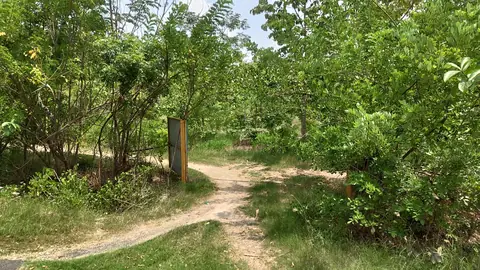
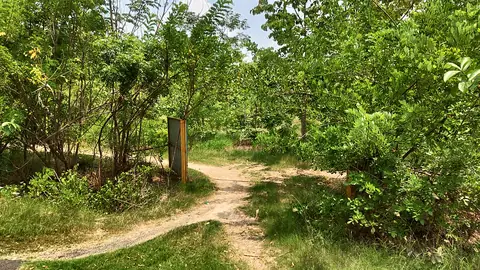
Make whole property cards open the listing, and clean up the site photos
The small "Full details" text link was easy to miss. Each card's title now
links to its listing page and is stretched over the card, so a tap on the
photo or text opens it, while the WhatsApp, call and details buttons stay
on top. "View full details & photos" is now a yellow button.

The Thirukazhukundram and Kaithandalam photos are re-taken from the
sharpest frame near each chosen moment of the owner's videos, denoised,
upscaled 2x (948x1185, with 480w variants), and given a gentle contrast and
colour lift; the tree-lined road frame is cropped to drop the cameraman's
shoe. The OMR building photo gets the same grade and loses the dark strip
left by the earlier perspective correction. Nothing on the land is added
or removed.

diff --git a/index.html b/index.html
@@ -366,13 +366,13 @@
         <div class="listings-grid">
           <article class="listing-card featured wide" id="thirukazhukundram-22-acres">
             <div class="listing-media">
-              <img src="/images/thirukazhukundram-field-hills.webp" width="474" height="592" loading="lazy" decoding="async"
+              <img src="/images/thirukazhukundram-field-hills.webp" srcset="/images/thirukazhukundram-field-hills-480.webp 480w, /images/thirukazhukundram-field-hills.webp 948w" sizes="(max-width: 700px) 92vw, 520px" width="948" height="1185" loading="lazy" decoding="async"
                    alt="Open field on the 22-acre Thirukazhukundram land with the hills in the background" />
               <div class="listing-badges"><span class="badge badge-new">New</span><span class="badge">Farm land</span><span class="badge badge-light">22 acres</span></div>
             </div>
             <div class="listing-body">
               <p class="listing-location">Thirukazhukundram · Chengalpattu district</p>
-              <h3 class="listing-title">22 Acres on Thirukazhukundram to Chengalpattu Road</h3>
+              <h3 class="listing-title"><a class="listing-link" href="/properties/thirukazhukundram-22-acres.html">22 Acres on Thirukazhukundram to Chengalpattu Road</a></h3>
               <p class="listing-desc">A 22-acre farm with coconut palms, mango trees, open fields and a tree-lined internal road, on the Thirukazhukundram to Chengalpattu road with the hills in view.</p>
               <dl class="listing-facts">
                 <div><dt>Extent</dt><dd>22 acres</dd></div>
@@ -380,7 +380,7 @@
                 <div><dt>Trees</dt><dd>Coconut &amp; mango</dd></div>
               </dl>
               <div class="listing-actions">
-                <a class="listing-more" href="/properties/thirukazhukundram-22-acres.html">Full details and photos</a>
+                <a class="listing-more" href="/properties/thirukazhukundram-22-acres.html">View full details &amp; photos</a>
                 <a class="btn btn-dark" target="_blank" rel="noopener noreferrer"
                    href="https://wa.me/919884836380?text=Hi%2C%20I%27m%20interested%20in%20the%2022-acre%20land%20on%20the%20Thirukazhukundram%20to%20Chengalpattu%20road%20(listed%20on%20your%20website).">WhatsApp Enquiry</a>
                 <a class="listing-map" href="tel:+919884836380">Call 98848 36380</a>
@@ -396,7 +396,7 @@
             </div>
             <div class="listing-body">
               <p class="listing-location">Kattankulathur · GST Road</p>
-              <h3 class="listing-title">16 Grounds on GST Road, Kattankulathur</h3>
+              <h3 class="listing-title"><a class="listing-link" href="/properties/gst-road-kattankulathur.html">16 Grounds on GST Road, Kattankulathur</a></h3>
               <p class="listing-desc">A large frontage parcel on the GST Road service road between Tambaram and Chengalpattu, beside the BDO office. Suited to a showroom, warehouse, school, hospital or commercial development.</p>
               <dl class="listing-facts">
                 <div><dt>Extent</dt><dd>≈ 16 grounds</dd></div>
@@ -404,7 +404,7 @@
                 <div><dt>Depth</dt><dd>223 to 277 ft</dd></div>
               </dl>
               <div class="listing-actions">
-                <a class="listing-more" href="/properties/gst-road-kattankulathur.html">Full details</a>
+                <a class="listing-more" href="/properties/gst-road-kattankulathur.html">View full details &amp; photos</a>
                 <a class="btn btn-dark" target="_blank" rel="noopener noreferrer"
                    href="https://wa.me/919884836380?text=Hi%2C%20I%27m%20interested%20in%20the%2016-ground%20GST%20Road%20property%20at%20Kattankulathur%20(listed%20on%20your%20website).">WhatsApp Enquiry</a>
                 <a class="listing-map" href="tel:+919884836380">Call 98848 36380</a>
@@ -420,10 +420,10 @@
             </div>
             <div class="listing-body">
               <p class="listing-location">OMR · Thoraipakkam</p>
-              <h3 class="listing-title">Under-construction Building, OMR Thoraipakkam</h3>
+              <h3 class="listing-title"><a class="listing-link" href="/properties/omr-thoraipakkam-building.html">Under-construction Building, OMR Thoraipakkam</a></h3>
               <p class="listing-desc">A stilt-plus-multi-floor building with the structure and block work complete, in Thoraipakkam just off the OMR IT corridor. Ask for floor plans and the current stage of work.</p>
               <div class="listing-actions">
-                <a class="listing-more" href="/properties/omr-thoraipakkam-building.html">Full details</a>
+                <a class="listing-more" href="/properties/omr-thoraipakkam-building.html">View full details &amp; photos</a>
                 <a class="btn btn-dark" target="_blank" rel="noopener noreferrer"
                    href="https://wa.me/919884836380?text=Hi%2C%20I%27m%20interested%20in%20the%20under-construction%20building%20in%20OMR%20Thoraipakkam%20(listed%20on%20your%20website).">WhatsApp Enquiry</a>
                 <a class="listing-map" href="tel:+919884836380">Call</a>
@@ -438,14 +438,14 @@
             </div>
             <div class="listing-body">
               <p class="listing-location">OMR · Thoraipakkam</p>
-              <h3 class="listing-title">9,000 sq ft Land in Thoraipakkam, OMR</h3>
+              <h3 class="listing-title"><a class="listing-link" href="/properties/omr-thoraipakkam-9000-sqft.html">9,000 sq ft Land in Thoraipakkam, OMR</a></h3>
               <p class="listing-desc">A sizeable plot (about 3.75 grounds) in Thoraipakkam on the OMR corridor, close to the IT parks, with strong demand for residential and commercial use.</p>
               <dl class="listing-facts">
                 <div><dt>Extent</dt><dd>9,000 sq ft</dd></div>
                 <div><dt>Grounds</dt><dd>≈ 3.75</dd></div>
               </dl>
               <div class="listing-actions">
-                <a class="listing-more" href="/properties/omr-thoraipakkam-9000-sqft.html">Full details</a>
+                <a class="listing-more" href="/properties/omr-thoraipakkam-9000-sqft.html">View full details</a>
                 <a class="btn btn-dark" target="_blank" rel="noopener noreferrer"
                    href="https://wa.me/919884836380?text=Hi%2C%20I%27m%20interested%20in%20the%209%2C000%20sq%20ft%20land%20in%20OMR%20Thoraipakkam%20(listed%20on%20your%20website).">WhatsApp Enquiry</a>
                 <a class="listing-map" href="tel:+919884836380">Call</a>
@@ -460,14 +460,14 @@
             </div>
             <div class="listing-body">
               <p class="listing-location">Anandham Nagar · Thoraipakkam</p>
-              <h3 class="listing-title">Building under Construction, Anandham Nagar</h3>
+              <h3 class="listing-title"><a class="listing-link" href="/properties/anandham-nagar-building.html">Building under Construction, Anandham Nagar</a></h3>
               <p class="listing-desc">A 2,500 sq ft building under construction on a 1,200 sq ft plot in Anandham Nagar, Thoraipakkam.</p>
               <dl class="listing-facts">
                 <div><dt>Land</dt><dd>1,200 sq ft</dd></div>
                 <div><dt>Built-up</dt><dd>2,500 sq ft</dd></div>
               </dl>
               <div class="listing-actions">
-                <a class="listing-more" href="/properties/anandham-nagar-building.html">Full details</a>
+                <a class="listing-more" href="/properties/anandham-nagar-building.html">View full details</a>
                 <a class="btn btn-dark" target="_blank" rel="noopener noreferrer"
                    href="https://wa.me/919884836380?text=Hi%2C%20I%27m%20interested%20in%20the%20Anandham%20Nagar%20building%20in%20Thoraipakkam%20(listed%20on%20your%20website).">WhatsApp Enquiry</a>
                 <a class="listing-map" href="tel:+919884836380">Call</a>
@@ -483,14 +483,14 @@
             </div>
             <div class="listing-body">
               <p class="listing-location">Sakthi Garden</p>
-              <h3 class="listing-title">Sakthi Garden Plot 70, 750 to 3,000 sq ft</h3>
+              <h3 class="listing-title"><a class="listing-link" href="/properties/sakthi-garden-plot-70.html">Sakthi Garden Plot 70, 750 to 3,000 sq ft</a></h3>
               <p class="listing-desc">A 60 × 50 ft corner plot on two 24 ft roads, available whole or as three parts. Patta available.</p>
               <dl class="listing-facts">
                 <div><dt>Plot A</dt><dd>1,500 sq ft</dd></div>
                 <div><dt>Plots B &amp; C</dt><dd>750 sq ft each</dd></div>
               </dl>
               <div class="listing-actions">
-                <a class="listing-more" href="/properties/sakthi-garden-plot-70.html">Full details</a>
+                <a class="listing-more" href="/properties/sakthi-garden-plot-70.html">View full details &amp; photos</a>
                 <a class="btn btn-dark" target="_blank" rel="noopener noreferrer"
                    href="https://wa.me/919884836380?text=Hi%2C%20I%27m%20interested%20in%20Sakthi%20Garden%20plot%2070%20(listed%20on%20your%20website).">WhatsApp Enquiry</a>
                 <a class="listing-map" href="tel:+919884836380">Call</a>
@@ -506,7 +506,7 @@
             </div>
             <div class="listing-body">
               <p class="listing-location">Kaithandalam &amp; Kattuputhur · Uthiramerur, Kancheepuram</p>
-              <h3 class="listing-title">100 Acres Contiguous Land off SH-118</h3>
+              <h3 class="listing-title"><a class="listing-link" href="/properties/kaithandalam-100-acres.html">100 Acres Contiguous Land off SH-118</a></h3>
               <p class="listing-desc">A contiguous block in Kaithandalam and Kattuputhur villages on State Highway 118 (Pukkathurai to Uthiramerur), with more than 300 m of road frontage and a 100-acre lake opposite. Single owner, selling directly; about 6.5 km from the Pukkathurai junction on GST Road. Suited to industrial, warehousing, township or institutional use.</p>
               <dl class="listing-facts">
                 <div><dt>Extent</dt><dd>100 acres</dd></div>
@@ -519,7 +519,7 @@
                 <li>About 50 km from Chennai Airport</li>
               </ul>
               <div class="listing-actions">
-                <a class="listing-more" href="/properties/kaithandalam-100-acres.html">Full details</a>
+                <a class="listing-more" href="/properties/kaithandalam-100-acres.html">View full details &amp; photos</a>
                 <a class="btn btn-dark" target="_blank" rel="noopener noreferrer"
                    href="https://wa.me/919884836380?text=Hi%2C%20I%27m%20interested%20in%20the%20100-acre%20Kaithandalam%20%2F%20Kattuputhur%20land%20(listed%20on%20your%20website).">WhatsApp Enquiry</a>
                 <a class="listing-map" href="tel:+919884836380">Call 98848 36380</a>

diff --git a/public/properties/thirukazhukundram-22-acres.html b/public/properties/thirukazhukundram-22-acres.html
@@ -136,20 +136,20 @@
   <article class="page-content">
     <div class="container">
       <figure class="listing-figure">
-        <img src="/images/thirukazhukundram-field-hills.webp" width="474" height="592" alt="Open field on the Thirukazhukundram land with the hills in the background" />
+        <img src="/images/thirukazhukundram-field-hills.webp" srcset="/images/thirukazhukundram-field-hills-480.webp 480w, /images/thirukazhukundram-field-hills.webp 948w" sizes="(max-width: 900px) 92vw, 760px" width="948" height="1185" alt="Open field on the Thirukazhukundram land with the hills in the background" />
         <figcaption>Open land with the Thirukazhukundram hills behind. Frames from the owner&#x27;s site video, October 2026.</figcaption>
       </figure>
       <div class="photo-grid three">
         <figure>
-          <img src="/images/thirukazhukundram-tree-lined-path.webp" width="474" height="592" loading="lazy" alt="Mud road inside the land lined with coconut palms and trees" />
+          <img src="/images/thirukazhukundram-tree-lined-path.webp" srcset="/images/thirukazhukundram-tree-lined-path-480.webp 480w, /images/thirukazhukundram-tree-lined-path.webp 948w" sizes="(max-width: 900px) 92vw, 760px" width="948" height="1185" loading="lazy" alt="Mud road inside the land lined with coconut palms and trees" />
           <figcaption>Tree-lined internal road</figcaption>
         </figure>
         <figure>
-          <img src="/images/thirukazhukundram-coconut-row.webp" width="474" height="592" loading="lazy" alt="Row of coconut palms along the edge of the field, hills in the distance" />
+          <img src="/images/thirukazhukundram-coconut-row.webp" srcset="/images/thirukazhukundram-coconut-row-480.webp 480w, /images/thirukazhukundram-coconut-row.webp 948w" sizes="(max-width: 900px) 92vw, 760px" width="948" height="1185" loading="lazy" alt="Row of coconut palms along the edge of the field, hills in the distance" />
           <figcaption>Coconut palms along the boundary</figcaption>
         </figure>
         <figure>
-          <img src="/images/thirukazhukundram-mango-coconut.webp" width="474" height="592" loading="lazy" alt="Mango and coconut trees in the grove section of the land" />
+          <img src="/images/thirukazhukundram-mango-coconut.webp" srcset="/images/thirukazhukundram-mango-coconut-480.webp 480w, /images/thirukazhukundram-mango-coconut.webp 948w" sizes="(max-width: 900px) 92vw, 760px" width="948" height="1185" loading="lazy" alt="Mango and coconut trees in the grove section of the land" />
           <figcaption>Mango and coconut grove</figcaption>
         </figure>
       </div>

diff --git a/src/styles.css b/src/styles.css
@@ -550,14 +550,28 @@ img { max-width: 100%; display: block; }
 }
 .listing-map:hover { color: var(--yellow-ink); }
 .listing-more {
-  flex-basis: 100%;
+  display: inline-flex;
+  align-items: center;
+  gap: 6px;
+  padding: 11px 18px;
+  border-radius: var(--radius);
+  background: var(--yellow);
+  color: var(--ink);
   font-size: 0.88rem;
   font-weight: 800;
-  color: var(--yellow-ink);
-  padding: 4px 0;
+  border: 2px solid var(--ink);
 }
-.listing-more::after { content: ' →'; }
-.listing-more:hover { color: var(--ink); }
+.listing-more::after { content: '→'; transition: transform var(--transition); }
+.listing-more:hover::after,
+.listing-card:hover .listing-more::after { transform: translateX(4px); }
+
+/* The whole card opens the listing page: the title link is stretched over
+   the card, and the action links sit above it so they still work. */
+.listing-card { position: relative; cursor: pointer; }
+.listing-link { color: inherit; }
+.listing-link::after { content: ''; position: absolute; inset: 0; z-index: 1; }
+.listing-card:hover .listing-title { color: var(--yellow-ink); }
+.listing-actions a { position: relative; z-index: 2; }
 
 .area-links { text-align: center; margin: -1.2rem 0 2rem; font-size: 0.95rem; color: var(--gray-600); }
 .area-links a { color: var(--ink); font-weight: 700; border-bottom: 2px solid var(--yellow); }

diff --git a/public/properties/kaithandalam-100-acres.html b/public/properties/kaithandalam-100-acres.html
@@ -136,7 +136,7 @@
       </figure>
       <div class="photo-grid">
         <figure>
-          <img src="/images/kaithandalam-site-path.webp" width="474" height="592" loading="lazy" alt="Mud track running through the tree-covered Kaithandalam land" />
+          <img src="/images/kaithandalam-site-path.webp" srcset="/images/kaithandalam-site-path-480.webp 480w, /images/kaithandalam-site-path.webp 948w" sizes="(max-width: 900px) 92vw, 760px" width="948" height="1185" loading="lazy" alt="Mud track running through the tree-covered Kaithandalam land" />
           <figcaption>Track inside the land</figcaption>
         </figure>
         <figure class="contain">
